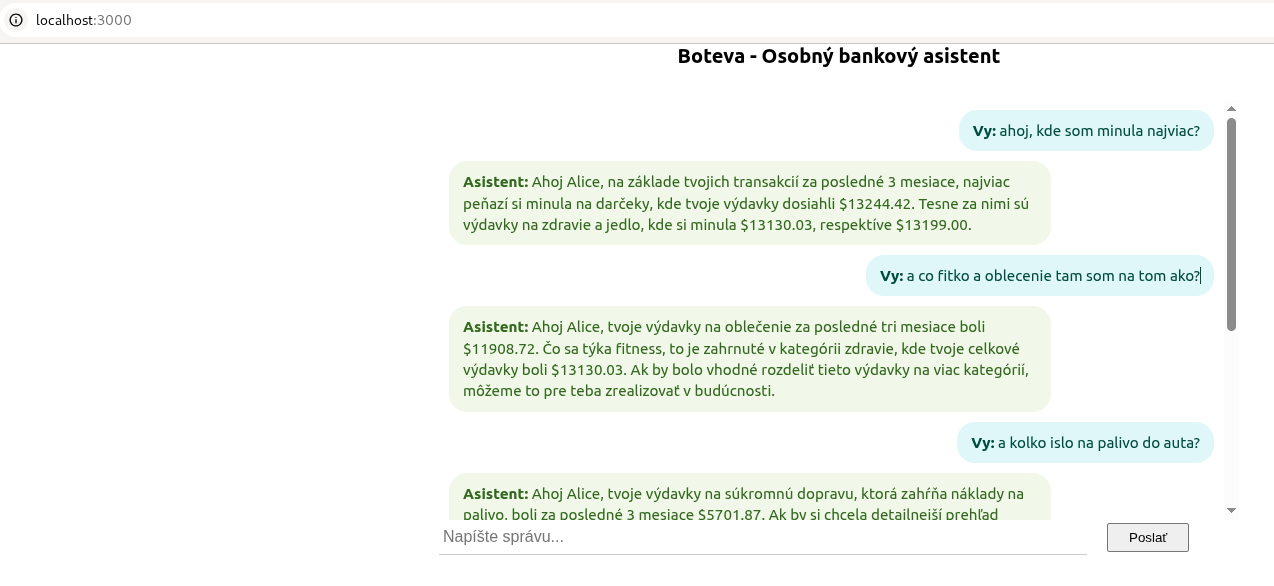
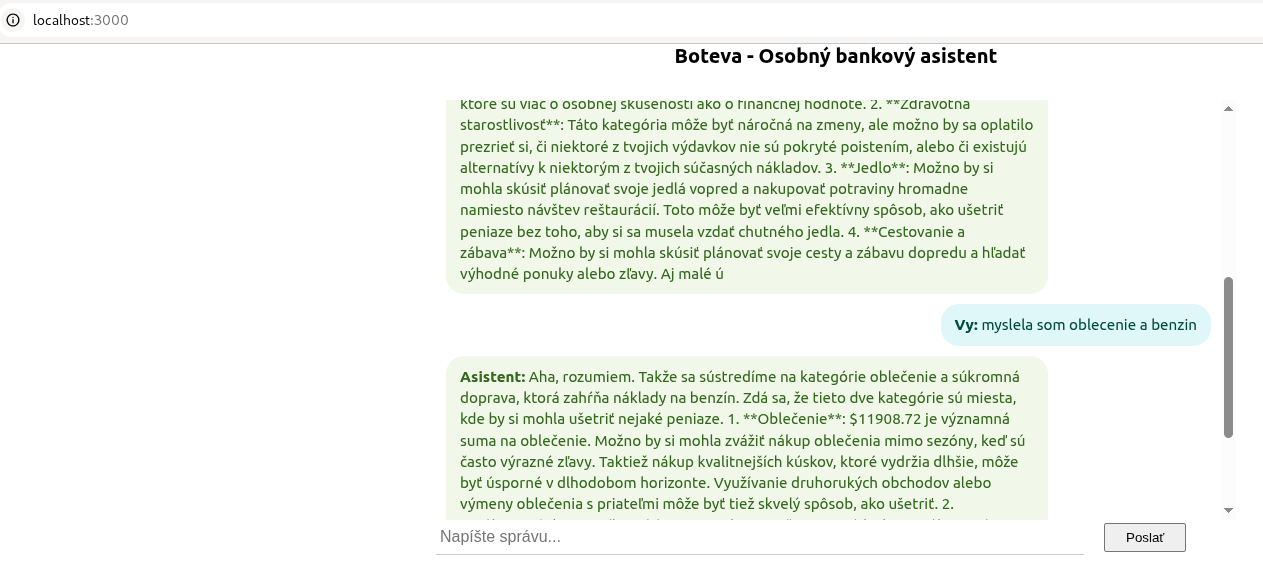
modified to preserve entire chat context

diff --git a/src/pages/ChatPage.tsx b/src/pages/ChatPage.tsx
@@ -41,7 +41,7 @@ const ChatPage: React.FC = () => {
       const response = await fetch(`http://localhost:8080/api/assistant/chat`, {
         method: 'POST',
         headers: { 'Content-Type': 'application/json' },
-        body: JSON.stringify({ clientId: clientId, message: input })
+        body: JSON.stringify({ clientId: clientId, messages: newMessages })
       });
 
       const data = await response.json();
